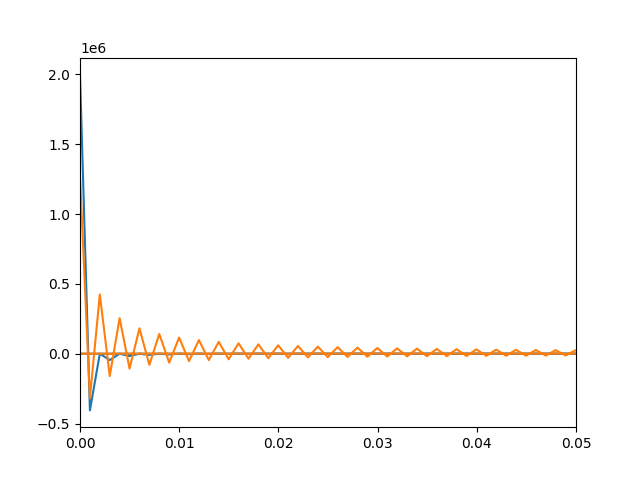
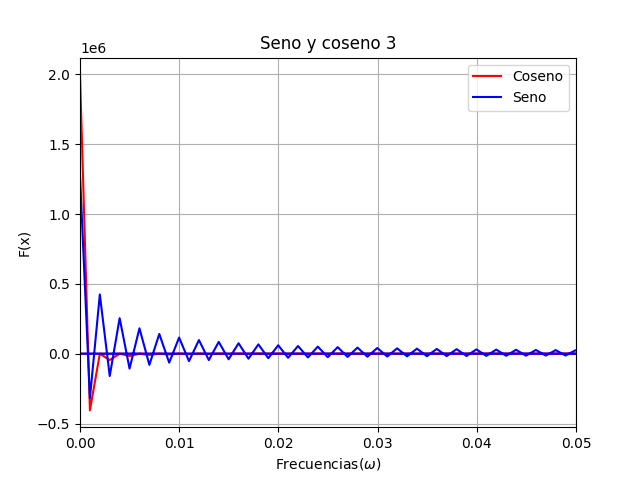
Arreglos agraficas de ej4

diff --git a/Ejercicio_4/Ej_4.py b/Ejercicio_4/Ej_4.py
@@ -4,6 +4,7 @@ import numpy as np
 import matplotlib.pyplot as plt
 from scipy import fft
 
+# Se definen las funciones
 def func1(x):
     return np.piecewise(x, [x<=2, x>2], [1, 0])
 
@@ -16,15 +17,18 @@ def func3(x):
 def func4(x):
     return np.exp(-x*x)
 
+# Se definen los valores de x para las funcs
 x_vals = np.linspace(0, 1000, 1000)
 x_vals_g = np.linspace(0, 10, 1000)
 
+#Graficacion de las funciones
 plt.figure(1)
 plt.xlim(0,4)
 plt.plot(x_vals_g, func1(x_vals_g))
 plt.title('Funcion 1')
 plt.xlabel('Valores de x')
 plt.ylabel('f(x)')
+plt.grid()
 plt.savefig('Func1.png')
 
 plt.figure(2)
@@ -32,6 +36,7 @@ plt.plot(x_vals, func2(x_vals))
 plt.title('Funcion 2')
 plt.xlabel('Valores de x')
 plt.ylabel('f(x)')
+plt.grid()
 plt.savefig('Func2.png')
 
 plt.figure(3)
@@ -39,6 +44,7 @@ plt.plot(x_vals, func3(x_vals))
 plt.title('Funcion 3')
 plt.xlabel('Valores de x')
 plt.ylabel('f(x)')
+plt.grid()
 plt.savefig('Func3.png')
 
 plt.figure(4)
@@ -47,8 +53,10 @@ plt.plot(x_vals_g, func4(x_vals_g))
 plt.title('Funcion 4')
 plt.xlabel('Valores de x')
 plt.ylabel('f(x)')
+plt.grid()
 plt.savefig('Func4.png')
 
+# Transformadas de Fourier y desplazamiento de frecuencia cero
 Fou1 = np.fft.fft(func1(x_vals_g))
 Fou1_s = np.fft.fftshift(Fou1)
 
@@ -73,6 +81,7 @@ freq3_s = np.fft.fftshift(freq3)
 freq4 = np.fft.fftfreq(len(Fou4), d = x_vals_g[1]-x_vals_g[0])
 freq4_s = np.fft.fftshift(freq4)
 
+# Transformadas seno y coseno
 Cos1 = fft.dct(func1(x_vals_g))
 Cos2 = fft.dct(func2(x_vals))
 Cos3 = fft.dct(func3(x_vals))
@@ -83,81 +92,98 @@ Sen2 = fft.dst(func2(x_vals))
 Sen3 = fft.dst(func3(x_vals))
 Sen4 = fft.dst(func4(x_vals_g))
 
+#Graficacion de las transformadas (real/imag/abs)
 plt.figure(5)
 plt.xlim(-3, 3)
-plt.plot(freq1_s, np.real(Fou1_s))
-plt.plot(freq1_s, np.imag(Fou1_s))
-plt.plot(freq1_s, np.abs(Fou1_s))
+plt.plot(freq1_s, np.real(Fou1_s), color='red', label='Real')
+plt.plot(freq1_s, np.imag(Fou1_s), color='blue', label='Imaginario')
+plt.plot(freq1_s, np.abs(Fou1_s), color='green', label='Absoluto')
 plt.title('Transformada 1')
 plt.xlabel('Frecuencias($\omega$)')
 plt.ylabel('F(x)')
+plt.grid()
+plt.legend(loc='upper right')
 plt.savefig('Transf_1.png')
 
 plt.figure(6)
 plt.xlim(-0.05, 0.05)
-plt.plot(freq2_s, np.real(Fou2_s))
-plt.plot(freq2_s, np.imag(Fou2_s))
-plt.plot(freq2_s, np.abs(Fou2_s))
+plt.plot(freq2_s, np.real(Fou2_s), color='red', label='Real')
+plt.plot(freq2_s, np.imag(Fou2_s), color='blue', label='Imaginario')
+plt.plot(freq2_s, np.abs(Fou2_s), color='green', label='Absoluto')
 plt.title('Transformada 2')
 plt.xlabel('Frecuencias($\omega$)')
 plt.ylabel('F(x)')
+plt.grid()
+plt.legend(loc='upper right')
 plt.savefig('Transf_2.png')
 
 plt.figure(7)
 plt.xlim(-0.05, 0.05)
-plt.plot(freq3_s, np.real(Fou3_s))
-plt.plot(freq3_s, np.imag(Fou3_s))
-plt.plot(freq3_s, np.abs(Fou3_s))
+plt.plot(freq3_s, np.real(Fou3_s), color='red', label='Real' )
+plt.plot(freq3_s, np.imag(Fou3_s), color='blue', label='Imaginario')
+plt.plot(freq3_s, np.abs(Fou3_s), color='green', label='Absoluto')
 plt.title('Transformada 3')
 plt.xlabel('Frecuencias($\omega$)')
 plt.ylabel('F(x)')
+plt.legend(loc='upper right')
+plt.grid()
 plt.savefig('Transf_3.png')
 
 plt.figure(8)
 plt.xlim(-3, 3)
-plt.plot(freq4_s, np.real(Fou4_s))
-plt.plot(freq4_s, np.imag(Fou4_s))
-plt.plot(freq4_s, np.abs(Fou4_s))
+plt.plot(freq4_s, np.real(Fou4_s), color='red', label='Real')
+plt.plot(freq4_s, np.imag(Fou4_s), color='blue', label='Imaginario')
+plt.plot(freq4_s, np.abs(Fou4_s), color='green', label='Absoluto')
 plt.title('Transformada 4')
 plt.xlabel('Frecuencias($\omega$)')
 plt.ylabel('F(x)')
+plt.legend(loc='upper right')
+plt.grid()
 plt.savefig('Transf_4.png')
 
+# Graficacion de las transformadas seno y coseno
 plt.figure(9)
-plt.xlim(-3, 3)
-plt.plot(freq1, Cos1)
-plt.plot(freq1, Sen1)
+plt.xlim(0, 3)
+plt.plot(freq1, Cos1, color='red', label='Coseno')
+plt.plot(freq1, Sen1, color='blue', label='Seno')
 plt.title('Seno y coseno 1')
 plt.xlabel('Frecuencias($\omega$)')
 plt.ylabel('F(x)')
+plt.grid()
+plt.legend(loc='upper right')
 plt.savefig('CosSen_1.png')
 
 plt.figure(10)
 plt.xlim(0, 0.05)
-plt.plot(freq2, Cos2)
-plt.plot(freq2, Sen2)
+plt.plot(freq2, Cos2, color='red', label='Coseno')
+plt.plot(freq2, Sen2, color='blue', label='Seno')
 plt.title('Seno y coseno 2')
 plt.xlabel('Frecuencias($\omega$)')
 plt.ylabel('F(x)')
+plt.grid()
+plt.legend(loc='upper right')
 plt.savefig('CosSen_2.png')
 
 plt.figure(11)
 plt.xlim(0, 0.05)
-plt.plot(freq3, Cos3)
-plt.plot(freq3, Sen3)
+plt.plot(freq3, Cos3, color='red', label='Coseno')
+plt.plot(freq3, Sen3, color='blue', label='Seno')
 plt.title('Seno y coseno 3')
 plt.xlabel('Frecuencias($\omega$)')
 plt.ylabel('F(x)')
+plt.grid()
+plt.legend(loc='upper right')
 plt.savefig('CosSen_3.png')
 
 plt.figure(12)
-plt.xlim(-3, 3)
-plt.plot(freq4, Cos4)
-plt.plot(freq4, Sen4)
+plt.xlim(0, 5)
+plt.plot(freq4, Cos4, color='red', label='Coseno')
+plt.plot(freq4, Sen4, color='blue', label='Seno')
 plt.title('Seno y coseno 4')
 plt.xlabel('Frecuencias($\omega$)')
 plt.ylabel('F(x)')
+plt.grid()
+plt.legend(loc='upper right')
 plt.savefig('CosSen_4.png')
-
 
 

diff --git a/Ejercicio_1/Ej_1alt.py b/Ejercicio_1/Ej_1alt.py
@@ -3,40 +3,49 @@
 import numpy as np
 import matplotlib.pyplot as plt
 
-def f(x):
+# Definicion de las funciones
+def f(x):  # Primer ancho
     return np.piecewise(x, [(x<-2), ((-2<=x) & (x<=-1) | (1<=x) & (x<=2)), (x>2)], [0, 1, 0])
 
-def f2(x):
+def f2(x):  # Segundo ancho
     return np.piecewise(x, [(x<-3), ((-3<=x) & (x<=-1) | (1<=x) & (x<=3)), (x>3)], [0, 1, 0])
 
-
+# Array de valores de x
 x_vals = np.linspace(-4, 4, 4086)
 
+# Trasnformadas de Fourier incluido el desplazamiento de frecuencia cero al centro del espectro
 Fou = np.fft.fft(f(x_vals))
 freq = np.fft.fftfreq(len(Fou), d = x_vals[1]-x_vals[0])
 Fou_S = np.fft.fftshift(Fou)
 freq_s = np.fft.fftshift(freq)
 
+# Norma al cuadrado de la transformada de Fourier
 FuncA = Fou_S * np.conj(Fou_S)
 
+# Graficacion del primer ancho de la funcion
 plt.xlim(-5, 5)
 plt.plot(freq_s, FuncA, '-*')
 plt.title('Norma al cuadrado, transf. Fourier')
 plt.xlabel('Frecuencias($\omega$)')
 plt.ylabel('Transf. al cuadrado')
+plt.grid()
 plt.savefig('Transf^2.png')
 
+# Transformada de Fourier para el otro ancho
 Fou2 = np.fft.fft(f2(x_vals))
 freq = np.fft.fftfreq(len(Fou2), d = x_vals[1]-x_vals[0])
 Fou2_S = np.fft.fftshift(Fou2)
 
+# Norma al cuadrado de la anterior transformada
 FuncA2 = Fou2_S * np.conj(Fou2_S)
 
+# Graficacion del segundo ancho
 plt.xlim(-5,5)
 plt.plot(freq_s, FuncA2, '-*')
 plt.title('Cambio de ancho en la funcion')
 plt.xlabel('Frecuencias($\omega$)')
 plt.ylabel('Transf. al cuadrado')
+plt.grid()
 plt.savefig('Transf^2_2.png')
 
 
